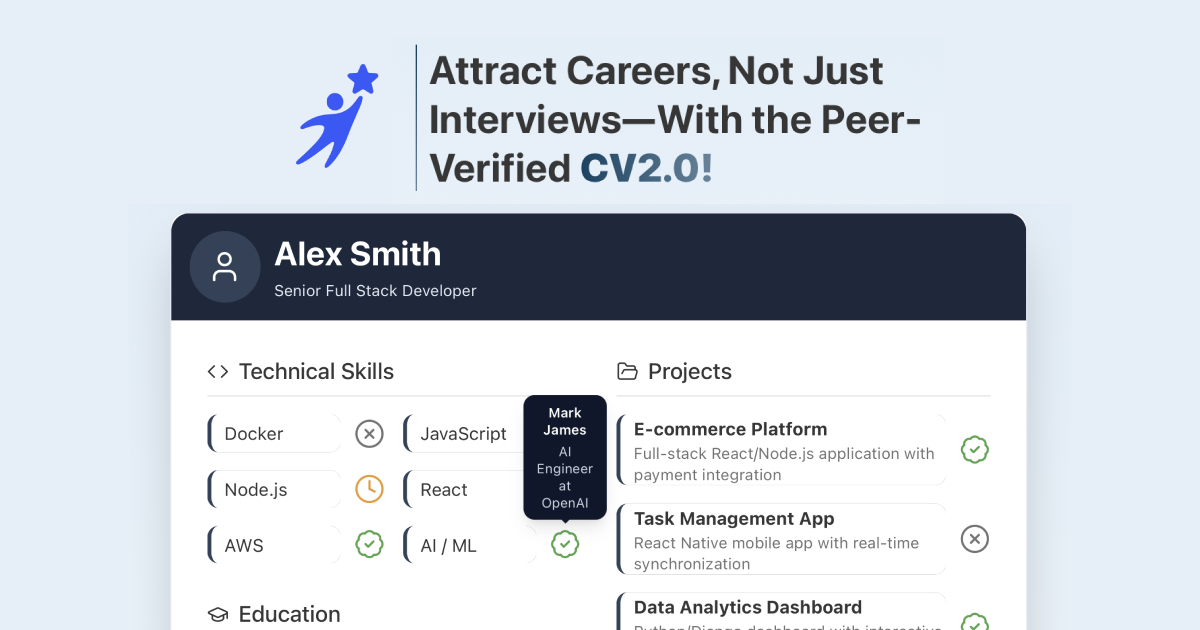
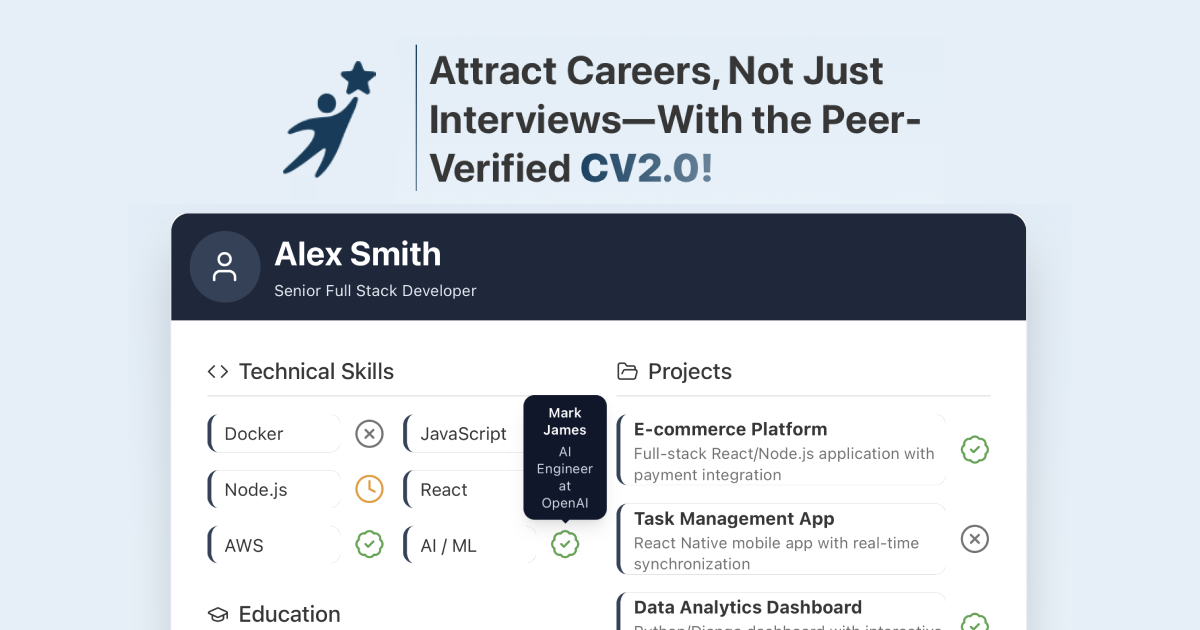
Changes to coloring

Changed region(s): [[0.2158, 0.0905, 0.3392, 0.2714]]

diff --git a/components/molecules/HeaderLink.tsx b/components/molecules/HeaderLink.tsx
@@ -11,13 +11,13 @@ export function HeaderLink({
 }: HeaderLinkProps) {
   // Base classes for all variants
   const baseClasses =
-    'text-slate-700 hover:text-blue-600 transition-all duration-200 font-medium cursor-pointer'
+    'text-slate-700 hover:text-primary transition-all duration-200 font-medium cursor-pointer'
 
   // Variant-specific classes
   const variantClasses =
     variant === 'desktop'
       ? 'py-2 px-1 relative group'
-      : 'text-left py-3 px-4 rounded-lg hover:bg-slate-50'
+      : 'text-left py-3 px-4 rounded-lg hover:bg-primary/10'
 
   return (
     <Link
@@ -27,7 +27,7 @@ export function HeaderLink({
     >
       {children}
       {variant === 'desktop' && (
-        <span className='absolute bottom-0 left-0 w-0 h-0.5 bg-blue-600 transition-all duration-200 group-hover:w-full' />
+        <span className='absolute bottom-0 left-0 w-0 h-0.5 bg-primary transition-all duration-200 group-hover:w-full' />
       )}
     </Link>
   )

diff --git a/components/atoms/DecorativeText.tsx b/components/atoms/DecorativeText.tsx
@@ -10,7 +10,7 @@ export function DecorativeText({
     <span
       className={cn(
         'text-2xl font-bold',
-        'bg-linear-to-r from-blue-600 to-blue-800',
+        'bg-linear-to-r from-primary to-primary/80',
         'bg-clip-text text-transparent',
         className
       )}
